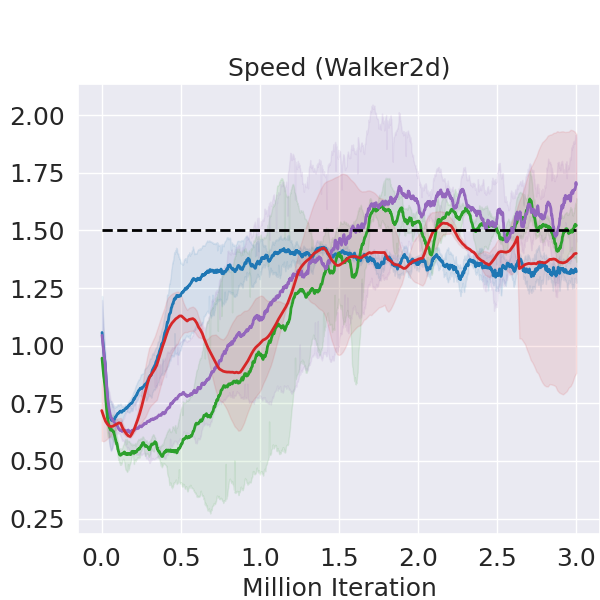
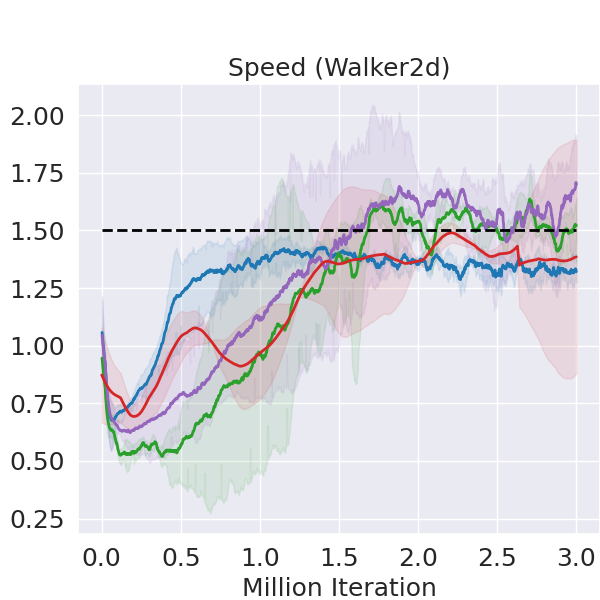
update lineplot

diff --git a/data_process/lineplot_mujoco_raw_spd_walker.py b/data_process/lineplot_mujoco_raw_spd_walker.py
@@ -13,7 +13,7 @@ from tensorboard.backend.event_processing import event_accumulator
 import json
 
 sns.set(style="darkgrid")
-SMOOTHFACTOR = 0.3 # 1 3 7 halfcheetah
+SMOOTHFACTOR = 0.1 # 1 3 7 halfcheetah
 SMOOTHFACTOR2 = 20
 SMOOTHFACTOR3 = 20
 DIV_LINE_WIDTH = 50
